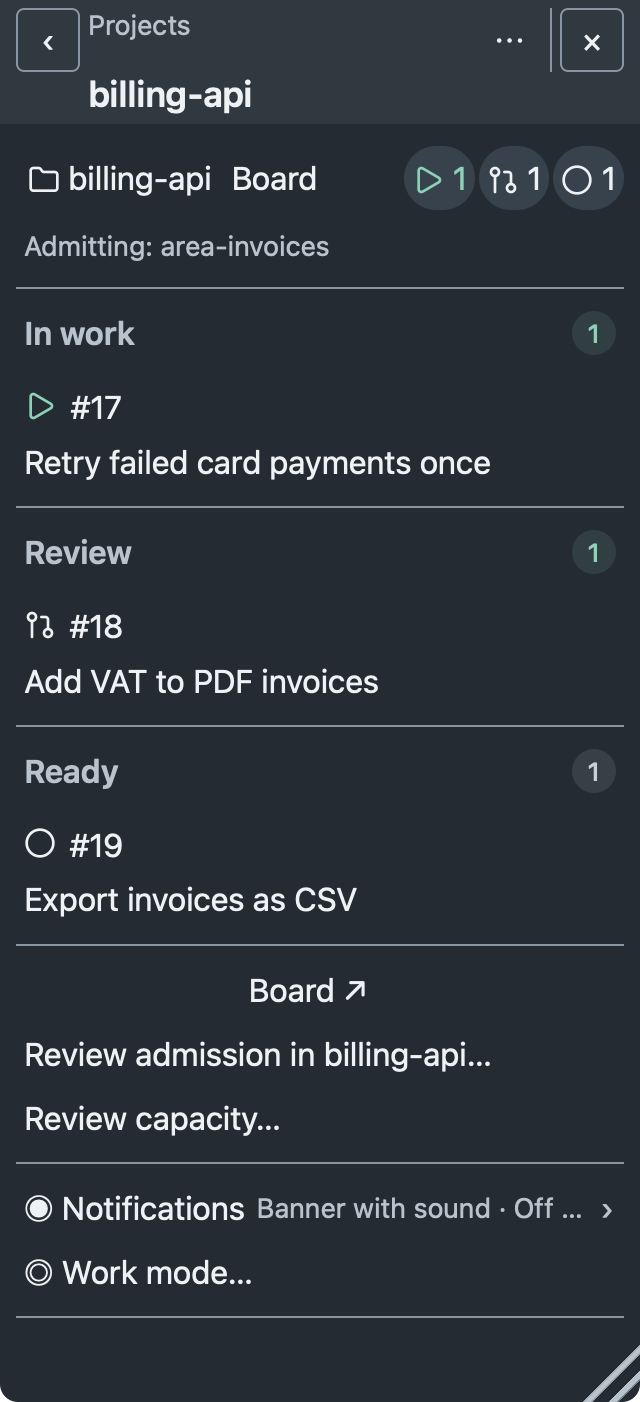
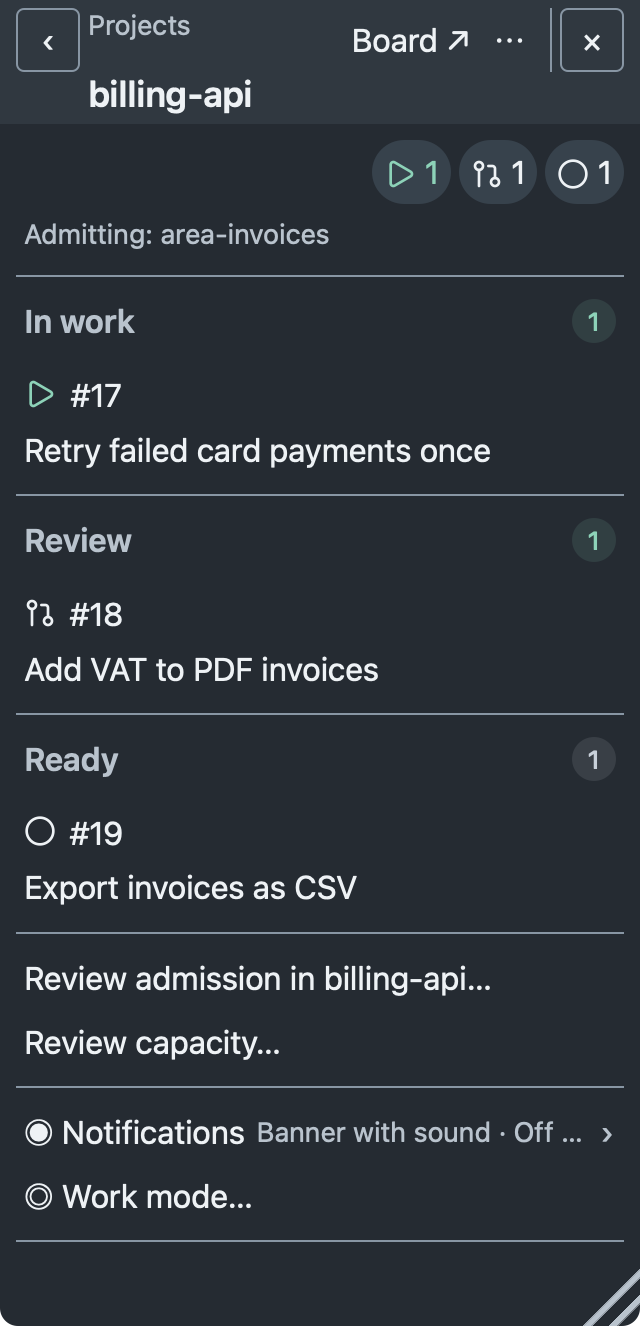
Record panel regression and native screenshot evidence
Task: https://github.com/taskqorg/taskq/issues/1466

diff --git a/docs/design/evidence/1466/checks.md b/docs/design/evidence/1466/checks.md
@@ -1,0 +1,108 @@
+# Live panels before tasks — #1466
+
+Implements TW3 from the approved #1443 plan under R6/R12 and § 7.
+No rule, host policy, execution lifecycle or public asset API is amended.
+
+Home reuses the executing-agent projection, work and workspace launchers, urgent
+faults and the complete shared task list. Appearance follows the list; full
+settings retain their purpose groups and shared navigation. Project identity
+appears in the navigation once, with one independent Board link. Task rows retain
+their title, issue, session and action boundaries. The original work-mode request
+is available in Projects rather than occupying a separate Home Scope panel.
+
+## Failure before, pass after
+
+Base: `288c9ae59e98187c0aa28720c0e2b338acfc70d9`.
+The new `node tests/tray-panels.browser.cjs` check failed on the base bundle:
+Home had no complete task list; empty Attention occupied a row; project identity
+and Board destination were repeated. The same checks pass after the change.
+`tests/tray-running.test.cjs`, compiled against the base tray controller, failed
+`duplicate execution must not double count`; it passes with the changed controller.
+The identity includes board, task and execution, while workers/reviewers, runtime,
+freshness, occupied slots and reservations remain distinct. Unknown observations
+name their missing/stale/partial/conflicting source rather than showing zero.
+
+The filter check now opens the project ancestor from the shared navigation,
+instead of clicking a duplicate project identity inside the task filter. It
+retains the same Back/OR filter assertion. No assertion was weakened.
+
+## Visual evidence
+
+The review set addresses the existing G05/G06 gaps only, with four images:
+
+- [G05 before](G05-before.png) and [G05 after](G05-after.png): project identity,
+  independent Board and full wrapped title.
+- [G06 before](G06-before.png) and [G06 after](G06-after.png): empty Attention,
+  actual executions and complete tasks on Home.
+
+Chromium headless, invented fixture, 320 × 760 CSS px, dark 16 px. All four
+images were opened individually and inspected at actual size: task text and
+essential controls are visible without horizontal clipping. They replace the
+G05/G06 observations in the #1443 review set; no new distinct gap is introduced.
+No screenshot is a process-runtime or native-dispatch proof.
+
+The component check protects runtime/role/host counts, stale and partial input,
+reservation separation, escaping and execution deduplication. The browser check
+protects Home composition, urgent faults, exact answer context, no policy/retry
+writes and wrapped titles in light/dark at 16/20 px and 320 px. The existing
+state-filter instrument protects all states, zero/unknown policy, OR, All tasks
+project grouping, Reset, keyboard, refresh and Back across eight width/type/theme
+cells. The shell route instrument covers all 13 tray route entries with fine and
+coarse input, one navigation title, target size, focus and nonoverlap. Operation
+and conversation browser checks retain workspace placement, immutable identity,
+unknown-result fencing, drafts, IME and Send/Enter protection.
+
+## Qualification limits
+
+Owner actual-size acceptance is pending. WKWebView/WebView2 clicks, window raise,
+real effects and Windows native rendering are unverified. No production policy,
+queue control, update, registration or failed-task retry was applied. Source and
+browser checks cannot replace release-native qualification (R12).
+Merge and green merge-result `merge_group` CI remain the publication gate (§ 7);
+this worker does not wait for or claim that gate.
+
+Final canonical gate, screenshot regeneration and publication receipts follow below.
+
+## Final candidate checks
+
+Implementation commit: `ed5aff69` (on base `288c9ae5`).
+`sh docs/shots/check.sh` first exited 2 for the changed tray blob. After
+`sh docs/shots/update.sh` built that immutable implementation, the same check
+passed. The refreshed README project image and summary icon were opened and
+inspected individually: one project identity/Board, readable task titles and
+visible essential controls. The snapshot used an isolated installation and the
+existing fixture; no running service was changed. The manifest records the
+source blobs, binary hash and WKWebView environment. Home remains qualified by
+the Chromium instrument only; native Home interaction is unverified.
+
+- `node tests/tray-panels.browser.cjs`: passed, dark/light 16/20 px at 320 px.
+- `node tests/tray-running.test.cjs`: passed, including deduplicated executions.
+- `node tests/tray-state-filter.browser.cjs`: passed, eight theme/type/width cells.
+- `node tests/shell-navigation.browser.cjs`: passed, 26 route/pointer cells;
+  [text inventory](routes.json) records zero target/focus/name/overlap gaps.
+- `node tests/tray-window.browser.cjs`: passed, both themes.
+- `node tests/tray-view-state.browser.cjs`: passed.
+- `node tests/workspace-communication.browser.cjs`: passed.
+- `node tests/workspace-operations.browser.cjs`: passed; effects substituted.
+- Navigation and workspace-launcher component checks passed.
+
+- All 18 `tests/*.test.cjs` component scripts passed independently after the
+  full gate stopped before reaching its Node stage.
+- `python3 scripts/check.py --base 288c9ae59e98187c0aa28720c0e2b338acfc70d9`:
+  **failed**, macOS arm64, new worktree/debug dependencies; 446 passed,
+  18 failed, 34 ignored; 186.698 s / 900 s, no retries. The explicit host
+  installation, policy and lifecycle worker refusals are **sandbox-blocked**,
+  never PASS. Other assertion failures remain unqualified: legacy drain/exit
+  proof, host acknowledgement/crash/readback and resource overlay expectations.
+  No authority environment or protection was relaxed. Rust integration tests
+  and canonical offline selftest were not reached; this is not a green gate.
+
+Active distinct-gap review set: the six unaffected #1443 G01–G04/G07/G08
+images plus the four G05/G06 before/after images here, ten images total. README
+project/icon regeneration preserves the existing release screenshot assets and
+adds no distinct-gap image to that set.
+
+- Separate `TASKQ_SELFTEST_OFFLINE=1 cargo +stable run --locked -- selftest`
+  passed in an isolated temporary installation: 97 golden traces, formats and
+  staged capture (3 committed observations). Board state remained explicitly
+  unknown; the running installation/writer was not used.
